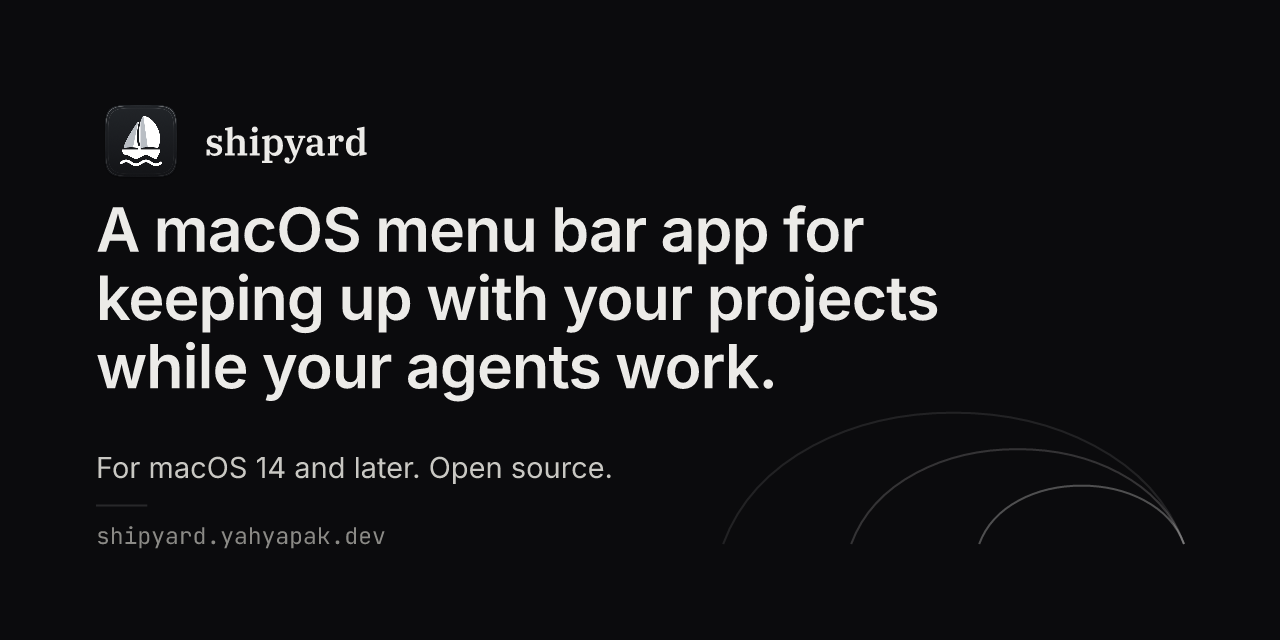
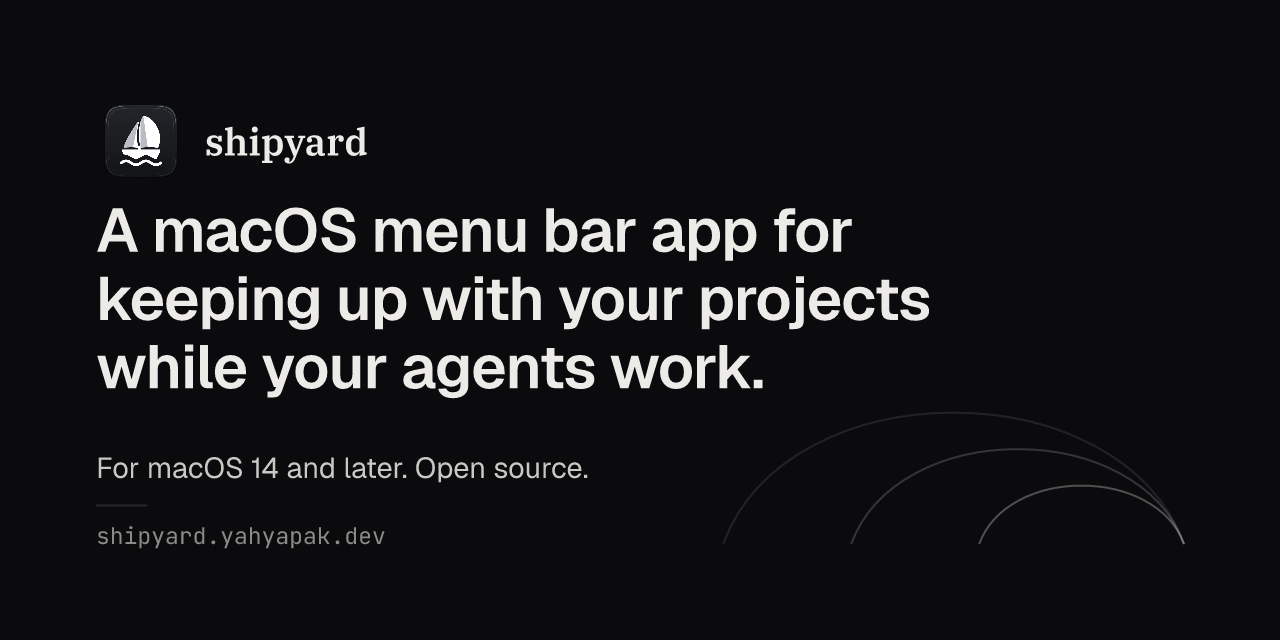
feat(site): set body text in the apple system font, with geist elsewhere
- the sans token is -apple-system first and geist, loaded from google fonts, where that isn't available; inter and its two inter-only features go
- the social cards and placeholder images use geist, since the apple font may not be used off apple platforms

Changed region(s): [[0.0625, 0.3125, 0.75, 0.625], [0.0938, 0.7188, 0.4688, 0.75]]

diff --git a/site/src/docs/docs.css b/site/src/docs/docs.css
@@ -1,7 +1,7 @@
 /* The docs page, after the topographic docs: a nav with the wordmark, one narrow column, and a margin for notes.
    Everything is scoped to .dx and reads its values from tokens.css; this file holds no colour, size or spacing of
-   its own. IBM Plex Serif is only for the wordmark and section titles; everything else is Inter. */
-.dx{min-height:100vh;background:var(--bg);color:var(--text);font:400 var(--type-body)/var(--leading) var(--sans);font-feature-settings:'cv11','ss01';-webkit-text-size-adjust:100%;color-scheme:dark}
+   its own. IBM Plex Serif is only for the wordmark and section titles; everything else is the Apple system font, or Geist where that isn't available. */
+.dx{min-height:100vh;background:var(--bg);color:var(--text);font:400 var(--type-body)/var(--leading) var(--sans);-webkit-text-size-adjust:100%;color-scheme:dark}
 html:has(.dx){background:var(--bg);scroll-padding-top:var(--scroll-pad)}
 body{margin:0;background:var(--bg)}
 :where(.dx) button{font:inherit;color:inherit;background:none;border:0;border-radius:0;padding:0;box-shadow:none;cursor:pointer}

diff --git a/site/index.html b/site/index.html
@@ -9,7 +9,7 @@
     <link rel="apple-touch-icon" href="/apple-touch-icon.png" />
     <link rel="preconnect" href="https://fonts.googleapis.com" />
     <link rel="preconnect" href="https://fonts.gstatic.com" crossorigin />
-    <link href="https://fonts.googleapis.com/css2?family=Inter:wght@400;500;600&family=JetBrains+Mono:wght@400;500&family=IBM+Plex+Serif:wght@600&display=swap" rel="stylesheet" />
+    <link href="https://fonts.googleapis.com/css2?family=Geist:wght@400;500;600&family=JetBrains+Mono:wght@400;500&family=IBM+Plex+Serif:wght@600&display=swap" rel="stylesheet" />
     <title>shipyard</title>
     <link rel="alternate" type="text/plain" href="/llms.txt" title="Docs for AI agents" />
     <meta name="description" content="" />

diff --git a/site/src/tokens.css b/site/src/tokens.css
@@ -45,7 +45,7 @@
   --land-wave:rgba(236,235,232,.16);
 
   /* typefaces */
-  --sans:Inter,-apple-system,BlinkMacSystemFont,system-ui,sans-serif;
+  --sans:-apple-system,BlinkMacSystemFont,Geist,system-ui,sans-serif;
   --serif:'IBM Plex Serif',Georgia,serif;
   --mono:'JetBrains Mono',ui-monospace,SFMono-Regular,Menlo,monospace;
 
